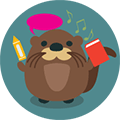
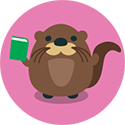
adding great books for great kids

diff --git a/read-listen-watch/index.html b/read-listen-watch/index.html
@@ -1,5 +1,6 @@
 <!DOCTYPE html>
-<html lang="en"><!-- InstanceBegin template="/Templates/page.dwt" codeOutsideHTMLIsLocked="false" -->
+<html lang="en">
+<!-- InstanceBegin template="/Templates/page.dwt" codeOutsideHTMLIsLocked="false" -->
 <head>
 <meta charset="utf-8">
 <meta http-equiv="X-UA-Compatible" content="IE=edge">
@@ -304,10 +305,24 @@ height="0" width="0" style="display:none;visibility:hidden"></iframe>
   </div>
   <div class="row shelf-shadow padding-bottom-60">
     <div class="container margin-lg-200">
-      <div class="col-sm-3 padding-top-40"><img class="center-block" src="epic-reads.png" alt="Epic Reads"></div>
+      <div class="col-sm-3 padding-top-40"><img class="center-block" src="tiger.png" alt="Epic Reads"></div>
       <div class="col-sm-9 padding-top-40">
         <div class="text-center text-left-sm">These are the books DCL’s youth librarians will be talking about in schools throughout the school year. These specially chosen reads for kids in grades 1-8 include everything from fiction, nonfiction and sci-fi to fantasy, mystery, humor and more. Enjoy!
           <div class="padding-top-15"><a class="text-uppercase" href="https://dcl.bibliocommons.com/list/share/692283576_dclkids/1039960567">See Entire List &raquo;</a></div>
+        </div>
+      </div>
+    </div>
+  </div>
+  <div id="great-books" class="text-center">
+    <h1 class="no-margin-bottom"><a href="https://dcl.bibliocommons.com/list/share/692283576_dclkids/1271170057">Great Books for Great Kids</a></h1>
+  </div>
+  <div id="GreatBooksGreatKids"></div>
+  <div class="row shelf-shadow padding-bottom-60">
+    <div class="container margin-lg-200">
+      <div class="col-sm-3 padding-top-40"><img class="center-block" src="otter.png" alt="Great Books for Great Kids"></div>
+      <div class="col-sm-9 padding-top-40">
+        <div class="text-center text-left-sm">Keep your kids reading all year long with these fun books. From adventurous, to suspenseful, to downright hilarious &mdash; and just about everything in between &mdash; these specially curated, kid-friendly reads offer something for everyone.
+          <div class="padding-top-15"><a class="text-uppercase" href="https://dcl.bibliocommons.com/list/share/692283576_dclkids/1271170057">See Entire List &raquo;</a></div>
         </div>
       </div>
     </div>
@@ -318,7 +333,7 @@ height="0" width="0" style="display:none;visibility:hidden"></iframe>
   <div id="StorytimeFavorites"></div>
   <div class="row shelf-shadow padding-bottom-60">
     <div class="container margin-lg-200">
-      <div class="col-sm-3 padding-top-40"><img class="center-block" src="otter.png" alt="Storytime Favorites"></div>
+      <div class="col-sm-3 padding-top-40"><img class="center-block" src="bear.png" alt="Storytime Favorites"></div>
       <div class="col-sm-9 padding-top-40">
         <div class="text-center text-left-sm">These are the hand-picked favorites of our childhood literacy specialist. These books incorporate fun, play and learning in a way that encourages literacy growth. Enjoy some or all of these with your growing reader!
           <div class="padding-top-15"><a class="text-uppercase" href="https://dcl.bibliocommons.com/list/share/692283576_dclkids/695845537">See Entire List &raquo;</a></div>
@@ -398,7 +413,7 @@ height="0" width="0" style="display:none;visibility:hidden"></iframe>
 </footer>
 <div class="copyright bg-gray-90">
   <div class="container padding-top-15 padding-bottom-80">
-	  <div class="eee"> <span class="pull-left"><a href="http://hip.douglascountylibraries.org/ipac20/ipac.jsp?profile=" target="_blank" class="wheat">Use the Classic Catalog &raquo;</a></span><span class="pull-right"> &copy; <script>document.write(new Date().getFullYear())</script> Douglas County Libraries, <a class="wheat" href="https://goo.gl/maps/1KN1wAoTvgx" target="_blank"><span class="text-nowrap">100 S. Wilcox Street,</span> <span class="text-nowrap">Castle Rock, CO&nbsp;&nbsp;80104</span></a> | <a class="wheat text-nowrap" href="tel:+13037917323">(303) 791-7323</a></span> </div>
+    <div class="eee"> <span class="pull-left"><a href="http://hip.douglascountylibraries.org/ipac20/ipac.jsp?profile=" target="_blank" class="wheat">Use the Classic Catalog &raquo;</a></span><span class="pull-right"> &copy; <script>document.write(new Date().getFullYear())</script> Douglas County Libraries, <a class="wheat" href="https://goo.gl/maps/1KN1wAoTvgx" target="_blank"><span class="text-nowrap">100 S. Wilcox Street,</span> <span class="text-nowrap">Castle Rock, CO&nbsp;&nbsp;80104</span></a> | <a class="wheat text-nowrap" href="tel:+13037917323">(303) 791-7323</a></span> </div>
   </div>
 </div>
 <!-- InstanceBeginEditable name="scripts" --> <!-- InstanceEndEditable --> 
@@ -437,6 +452,7 @@ height="0" width="0" style="display:none;visibility:hidden"></iframe>
 		"https:\/\/twitter.com\/DCLcolorado"]
   }
 </script> 
-<!-- End Structured Data --> 
+<!-- End Structured Data -->
 </body>
-<!-- InstanceEnd --></html>
+<!-- InstanceEnd -->
+</html>

diff --git a/read-listen-watch/biblioList.js b/read-listen-watch/biblioList.js
@@ -14,7 +14,7 @@ function createAllPageTitle(title)
      '<div class="text-center">',
       '<h1 class="jumbo-text text-uppercase font-weight-400 fade-in-text">What' + "'s"  + 'New</h1>',
       '<div class="separator-container padding-bottom-15">',
-       ' <div class="separator line-separator"><i class="fas fa-star"></i></div>',
+       ' <div class="separator line-separator"><i class="fa fa-star-o"></i></div>',
      ' </div>',
    ' </div>',
      ' <h1 class="no-margin">' + title + '</h1>  '
@@ -82,7 +82,7 @@ function doBiblioList(val) {
     //Noteworthy|New & Noteworthy||5|True|Biblio|975832667|10
     //ListenToThis|Listen To This||5|True|Biblio|963743517|10
     //NowFeaturing|Now Featuring||5|True|Biblio|/991669947|24
-    //EpicReads|Epic Reads||5|True|Biblio|994069717|10
+    //GreatBooksGreatKids|GreatBooksGreatKids||5|True|Biblio|994069717|10
     title = val.DisplayName;
     if (val.KeyName == 'Noteworthy') {
         var myel = $('#Noteworthy').append(createPreShelf(title, val.KeyName, '10'));
@@ -108,11 +108,11 @@ function doBiblioList(val) {
         getRandomCollectionList(val.KeyName, '10');
         $('#StorytimeFavorites').append(createPostShelves(title));
     }
-    if (val.KeyName == 'EpicReads') {
-        var myel = $('#EpicReads').append(createPreShelf(title, val.KeyName, '10'));
+    if (val.KeyName == 'GreatBooksGreatKids') {
+        var myel = $('#GreatBooksGreatKids').append(createPreShelf(title, val.KeyName, '10'));
         console.log('val', val.KeyName)
         getRandomCollectionList(val.KeyName, '10');
-        $('#EpicReads').append(createPostShelves(title));
+        $('#GreatBooksGreatKids').append(createPostShelves(title));
     }	
 }
 function getCollectionSet() {
@@ -216,8 +216,8 @@ function getRandomCollectionList(KeyName, divid) {
                 if (KeyName == "ListenToThis") {
                     $('#covers-ListenToThis').append(createBookList(val, KeyName));
                 }
-                if (KeyName == "EpicReads") {
-                    $('#covers-EpicReads').append(createBookList(val, KeyName));
+                if (KeyName == "GreatBooksGreatKids") {
+                    $('#covers-GreatBooksGreatKids').append(createBookList(val, KeyName));
                 }
               
             }
